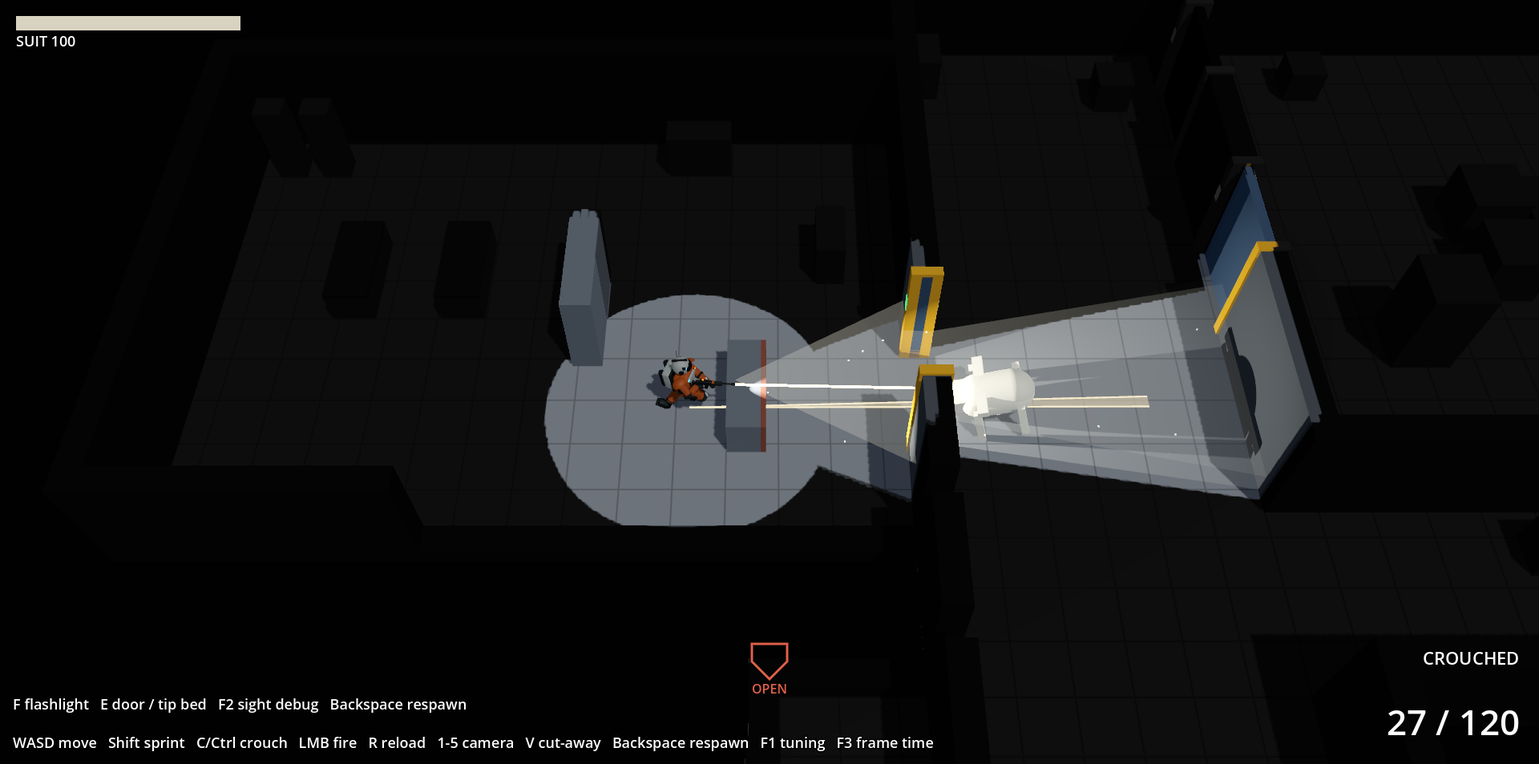
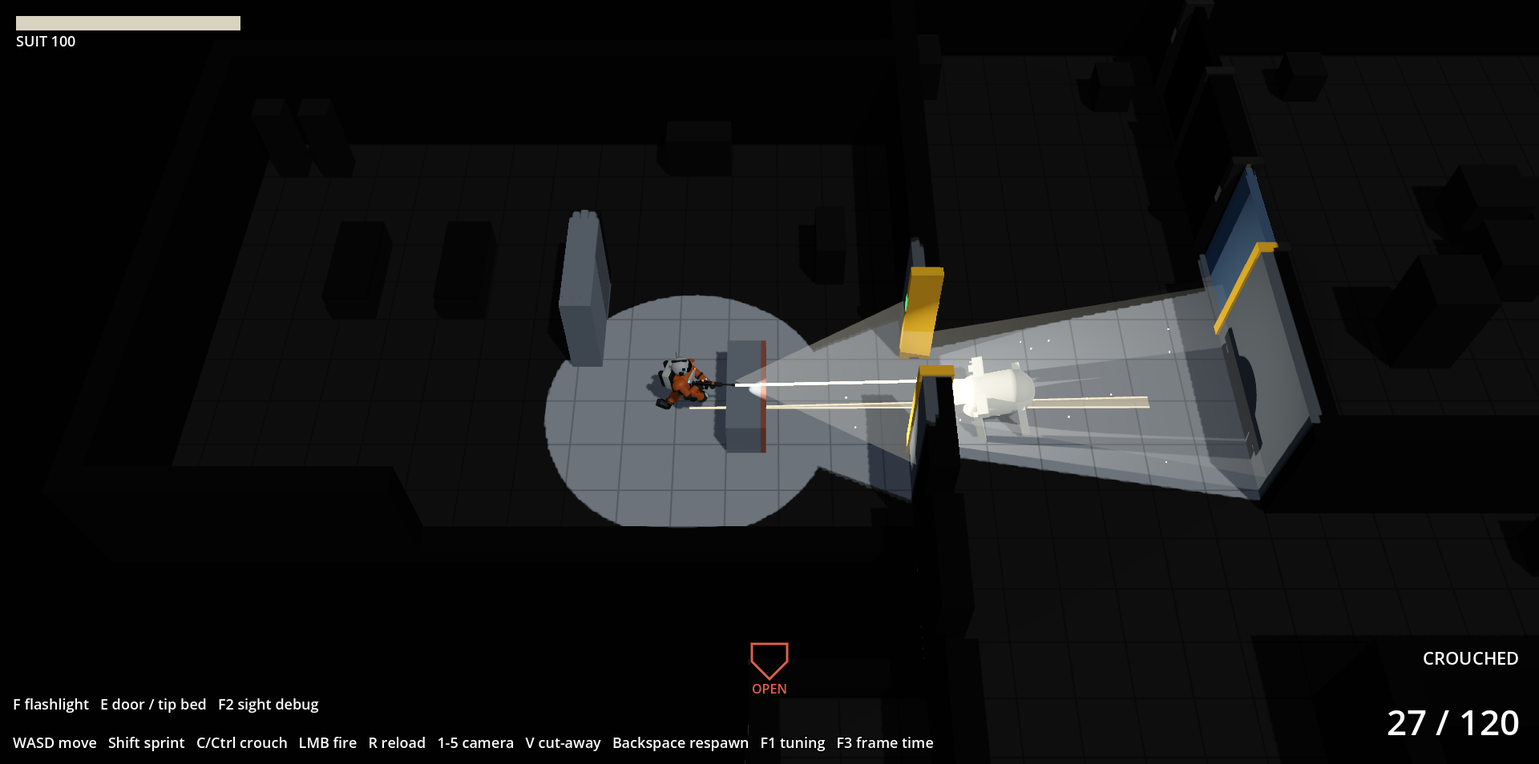
T005: contracts, handoff, STATUS, final captures

diff --git a/docs/handoffs/auto-T005.md b/docs/handoffs/auto-T005.md
@@ -1,0 +1,103 @@
+# T005 handoff: the stalker, cover with height, and getting hurt
+
+Branch `auto/t005-mac`. Play it: `godot --path . scenes/enemies/stalker_deck.tscn`.
+You start at the south end of the junction with an overturned bed, two tippable beds and consoles in the medbay (door on your left, ahead), one stalker prowling cargo, and one behind a wall panel you'll walk past.
+New keys: E tips a bed in reach (otherwise works a door); Backspace resets everything and starts a new life. Everything from `sight_deck` still works (WASD, Shift, C/Ctrl, mouse, LMB, R, F, F1, F2, F3).
+
+**Nobody has played this.** No keyboard or mouse has driven it, and nobody has heard the sounds. The stage 2 gate is still open.
+
+## What changed
+- **New modules:** `src/cover/`, `src/health/`, `src/enemies/`, `src/run_log/`, each with a `CONTRACT.md`. New data: `data/cover.json`, `data/health.json`, `data/enemies.json`. New scene: `scenes/enemies/stalker_deck.tscn`.
+- **`data/deck.json`:** every prop has a `cover` class. The medbay gains a third bed, already overturned. The two old beds are marked `tippable`.
+- **`data/debug.json`:** new F1 sections for Cover, Suit, Stalker senses, body, spit and lunge, and Ambush.
+
+**Edits outside the packet's named modules.** The packet needed these hooks, and I kept them small. Older scenes behave as before, apart from the extra bed:
+| File | Change |
+| --- | --- |
+| `src/weapons/rifle.gd` | Optional `shot_tracer` replaces the flat ray; `take_hit` also gets `origin` |
+| `src/player/operator.gd` | `hold_control()` for staggers, tipping and death; `crouch_shown` so a braced shot rises |
+| `src/study/deck_layout.gd`, `deck_builder.gd` | Props keep their `cover`; optional `breaches` (wall openings with floor) |
+| `src/sight/sight_deck.gd` | `_help_text()` hook |
+
+**The other decks changed slightly.** The third bed also appears as a plain upright box in `weight_deck`, `sight_deck` and `scale_deck`. Their captures weren't retaken.
+
+## Checks run
+**Headless: 153 passed, 0 failed, 0 load errors** (96 before T005). `--import` exits 0 with no errors. It still prints 13 `invalid UID` warnings for `operator.glb`, in files I didn't touch; I didn't check whether they predate this branch.
+
+| Packet check | Test |
+| --- | --- |
+| low cover blocks crouched, not standing | `test_low_cover_blocks_a_crouched_target_and_not_a_standing_one` |
+| braced firing exposes you | `test_braced_firing_exposes_you`, `test_the_mark_is_per_shooter_not_per_box` |
+| tall cover blocks both | `test_tall_cover_blocks_both` |
+| tipping changes the class | `test_tipping_the_bed_changes_its_cover_class_after_the_commitment`, plus the scene test |
+| stagger at the threshold | `test_a_stagger_triggers_at_the_threshold_and_not_under_it`, `test_a_big_hit_staggers_in_the_scene` |
+| puddle damage over time | `test_puddle_damage_over_time_only_while_standing_in_it`, plus the scene test |
+| hears a shot → investigate | `test_a_shot_it_hears_sends_it_to_investigate`, `test_the_rifle_and_sprinting_make_noise_in_the_scene` |
+| sees the player → stalk | `test_seeing_the_player_starts_the_stalk` |
+| in range → spit / lunge | `test_in_range_it_spits_with_a_telegraphed_windup`, `test_close_up_it_lunges_then_recovers_vulnerable` |
+| spit blocked far, arcs over near | `test_a_spit_is_blocked_by_low_cover_at_long_range_and_arcs_over_at_short_range`, `test_a_flying_glob_ends_on_cover_or_on_the_body` |
+| ambush fires once, only behind | `test_the_ambush_fires_once_only_behind_the_player`, `test_the_burst_fires_once_behind_the_player_and_lets_it_out` |
+| run log has its fields | `test_the_run_log_file_is_written_with_every_field`, `test_death_writes_the_log_and_a_respawn_resets_everything` |
+| numbers from data | `test_t005_scripts_have_no_tunable_literals` (18 scripts; capture code exempt), plus edited-value tests |
+
+Also tested: 6 to 8 rifle hits to kill (the numbers give 7), stalk paths leave the straight line and prefer hidden points, shut doors stop paths and bodies, and the E and Backspace key handlers (fed key events directly).
+
+I broke the code on purpose to prove the tests bite, then restored it:
+| Break | Tests that fail |
+| --- | --- |
+| low cover has no height | 8 |
+| bracing doesn't raise you | 2 |
+| the spit never arcs | 3 |
+| ambush fires while you look at it | 2 |
+| stagger only above the threshold | 1 |
+| log drops `killed_by` | 2 |
+
+**Frame time with two stalkers hunting: 3.50 ms average, 5.20 ms p95.** Against `sight_deck`, that is +0.26 ms average and +1.5 ms p95.
+| Scene | Average ms | p95 ms | p99 ms | Max ms |
+| --- | --- | --- | --- | --- |
+| `stalker_deck` (3 runs) | 3.50, 3.49, 3.51 | 5.20, 5.21, 5.20 | 5.65, 5.53, 5.75 | 18.0, 16.3, 17.0 |
+| `sight_deck` (2 runs) | 3.24, 3.24 | 3.66, 3.66 | 4.09, 4.05 | 18.8, 19.9 |
+
+- **Conditions:** 15 s windows at 1920×954 (not a true 1080p), M2 Pro, Metal, MSAA 4x, vsync off, load average 1.6 to 3.4. `frametime.json` holds the last run.
+- **The two demos differ:** the `sight_deck` demo paces a doorway and sweeps the light, so this comparison is rough. Neither fires.
+- **Where the p95 goes:** one world step of stalkers and cover costs 1.89 ms on average and 5.93 ms at worst, measured headless over 600 steps. It runs at 60 Hz, which is my explanation for the p95 rising more than the average; I didn't profile it further.
+
+**Headless bot runs (not a test, just a look at behaviour):**
+- Standing still after the burst: the first lunge began about 1.7 s after the stalker woke, and the suit was gone at about 12 s, mostly to lunges.
+- Crouched behind the overturned bed with a stalker 6 m away through the door: the first spit stopped on the bed. The stalker then closed in, and the second spit came over at 3 m. The bot never moved, so the puddles did half the damage.
+
+## Screenshots (`docs/screens/T005/`)
+- `cover_protected`: crouched behind the overturned bed, green shield.
+- `cover_braced_exposed`: firing from the same spot, shield open, stalker flashing from the hit.
+- `bed_tipping`, `spit_windup`, `acid_puddle`, `lunge_charge`, `lunge_recover`, `death_screen`.
+- `ambush_1_burst`, `ambush_2_turning`, `ambush_3_coming_out`: the turn is scripted to start right after the burst, at real turn rates.
+- `stalker_deck`, `stalker_deck_overlay`: the end of the measuring window.
+
+Stalkers are placed by script in these shots, except in the ambush. The positions are staged; the states and timing are real. Only stills were reviewed, so motion hasn't been judged.
+
+## Decisions made without you (easy to change)
+- **Stalkers can't open doors.** A shut door holds one, and a noise brings it up to the door. That makes doors a real tool and makes opening one scary, but you can shut yourself in a room and be safe. This is the decision most likely to need your call.
+- **Crouching behind low cover hides you from its eyes,** not just from its spit, unless you're within 2.6 m. Firing tells it where you are.
+- **Low cover counts as 0.9 m whatever the mesh is:** the 0.8 m crates, 1.1 m consoles and 1.2 m crates are all the same. Ammo crates (0.6 m) are no cover.
+- **Close range lobs, far range is flat.** It arcs over within about 3 to 5 m, which is the packet's rule rather than physics.
+- **One shield per hunting stalker.** It counts only stalkers with no wall or shut door between you. It uses the real arc, so it goes hollow when one gets close enough to lob over.
+- **The spawn moves south of the panel in this scene only,** so you have to walk past it. The closet behind the panel exists only here too.
+- **Start numbers:** suit 100, spit 16, lunge 34 (staggers), puddle 9 per second for 6 s, stalker health 126 (7 rifle hits), stalk speed 2.5 m/s (you walk at 3.4). Taking hits during recovery costs it 1.5 times the damage.
+- **A direct spit also leaves a puddle at your feet,** so it pushes you off your spot.
+- **Hits don't interrupt a wind-up.** A flinch slows it and flashes it, and nothing more.
+- **No death animation:** the operator stops, and the death screen shows who killed you and how.
+
+## Known limits
+- **The mark can tell you something you can't see:** a shield appears for a hunting stalker outside your light, as long as no wall is between you. That may be good dread or a leak.
+- **Shots still hit stalkers you can't see,** and hidden stalkers pop in with no fade (both as with T004's targets).
+- **Rounds fly flat at 1.2 m, exactly the top of the 1.2 m crates' physics boxes.** I didn't test a shot grazing one, so those crates may stop rounds that their 0.9 m cover height wouldn't.
+- **The panel is off-screen at the moment of the burst** when you face north, because the camera leads your aim. That is the point of the pillar, but it means you hear it before you see anything, and the sound is only a placeholder.
+- **A bed can land on a stalker:** a tipped bed's collision appears when it lands, even if one is standing there. Not seen, not tested.
+- **The run log is written on death, on Backspace and on window close.** The close path is tested by sending the notification, not by a real quit. Files: `~/Library/Application Support/Godot/app_userdata/Grave Rats/runs/`.
+
+## Needs John's eye
+1. *"Is moving through these rooms with a flashlight tense and fun?"* Play it with F1 open.
+2. **Does the burst work?** Do you hear it, turn, and still feel late? First levers: F1 "Ambush", and the 0.55 s before it comes out.
+3. **Should stalkers open doors?**
+4. **Is the bed worth tipping?** You lose 0.8 s for cover that a close stalker lobs over.
+5. **Are the sounds loud enough to warn you?** They're generated noise, and nobody has heard them.

diff --git a/src/enemies/CONTRACT.md b/src/enemies/CONTRACT.md
@@ -1,0 +1,52 @@
+# enemies
+
+The stalker, its spit, the bulkhead ambush, and the scene that closes the grey-box core loop (T005).
+
+## Owns
+- `stalker_brain.gd`: scene-free states, senses, turning, timing.
+- `stalker_nav.gd`: scene-free paths (`AStarGrid2D` over `DeckLayout.free_grid`, with shut doors, beds and the panel as named blockers) and the choice of where a stalk goes next.
+- `spit_arc.gd`: scene-free glob: lobbed at short range, nearly flat at long range.
+- `ambush_trigger.gd`: scene-free rule of the burst.
+- `stalker.gd`, `stalker_body.gd`: one CharacterBody3D and its grey-box body.
+- `spit_system.gd`: globs and puddles in the world, in opaque materials so the sight mask hides them.
+- `stalker_pack.gd`: the stalkers and what they share: builds senses, carries noise, turns events into spits and hits.
+- `bulkhead.gd`: the sealed panel: wall-coloured, stops bodies and sight, bursts into debris.
+- `placeholder_sound.gd`: generated bangs and spits, until real sound.
+- `stalker_deck.gd`: root of `scenes/enemies/stalker_deck.tscn`. Extends `src/sight/sight_deck.gd`; wires cover, suit, pack, ambush, run log. Dresses a copy of the deck: adds the closet and breach, moves the spawn south of the panel, removes dummies, makes the `tippable` props TipBeds.
+
+## Does not own
+- Cover rules (`src/cover`), the suit and puddle rules (`src/health`), sight (`src/sight`; `Visibility.blocked` answers "walls, shut doors, tall cover" for it), doors (`src/doors`).
+
+## States
+`DORMANT` (the closet) → `STALK` on `wake`. `PROWL` → `INVESTIGATE` on a noise → back after `linger_s`. Prowl or investigate → `STALK` on seeing you or being shot. `STALK` → `SPIT` or `LUNGE` in range → `RECOVER` → `STALK`. Memory running out in `STALK` → `INVESTIGATE` the last known place. Your death → `PROWL`.
+
+## Rules
+- **Sight:** forward cone, stopped by walls, shut doors and tall cover, and by low cover on the 3D line to your torso: crouching behind a bed hides you. Within `close_sense_m` it feels you past low cover (not through walls).
+- **Doors:** it can't open them. A shut door stops it and its paths, and a noise behind one brings it up to the door. Doors won't close on it.
+- **Stalk:** a planner picks points on rings around you and beside cover, scored for being hidden from you, off the direct line and on its chosen side; far away it must also get closer by walking, and close up it circles.
+- **Lunge** only with nothing at knee height on the line (`ground_clear`). With a box between you it spits, which at short range arcs over.
+- **Fast turn on a lunge only.** Everything else turns at capped rates, and it walks where it faces.
+- **Firing from hiding** refreshes where it thinks you are.
+- **Ambush:** after you pass the panel by `past_m` with it at least `behind_deg` off your aim, within `max_range_m`. Bang and kick at once; the stalker moves `emerge_delay_s` later.
+
+## Public API
+- `StalkerBrain.new(cfg, patrol, dormant, yaw)`: `step(delta, senses) -> events`, `hear(kind, at, from) -> bool`, `take_hit(damage, from) -> dealt`, `wake(player)`, `force_hunt`, `force_spit`, `force_lunge`, `alive()`, `hunting()`, `vulnerable()`, `state_name()`; static `perceives(...)`; fields `state`, `yaw`, `goal`, `velocity`, `last_known`, `knows`, `windup`, `charging`, `health`. Events `EV_SPIT`, `EV_LUNGE_START`, `EV_LUNGE_HIT`.
+- `StalkerNav.new(cfg, layout)`: `set_blocker(id, rect)` (empty Rect2 clears), `path(from, to)`, `is_free(p)`, `stalk_point(from, player, side, hidden)`.
+- `SpitArc.new(cfg, from, to)`: `step(delta, cover, plan_blocked, body) -> FLYING|COVER|WALL|HIT|LANDED`, `point_at(s)`; static `blocked_by_cover(cfg, cover, from, to)`, `apex_for(cfg, d)`.
+- `AmbushTrigger.new(cfg, panel)`: `check(player, aim_dir) -> bool` (true once), `would_fire`, `reset()`, `fired`.
+- `StalkerPack`: `setup(layout, cover, blocked, dps)`, `tick(delta)`, `reset()`, `noise(kind, at)`, `shooter_lines()`, `play_sound(key, at)`; fields `stalkers`, `nav`, `spits`, `target` {`pos`, `height`, `alive`}.
+- `Stalker`: `setup`, `reset`, `simulate(delta, pack)`, `place_hunting(from, at)`, `take_hit`, `shot_disc`, `mouth`, `floor_position`; fields `brain`, `label`.
+- `Bulkhead`: `setup(breach, cfg, height)`, `blow()`, `reset()`, `tick(delta)`, `blocks_sight()`, `sight_rect()`, `panel_center()`, `debris_count()`, `sealed`.
+- `stalker_deck.gd`: `simulate_world(delta)`, `interact()`, `fire_ambush()`, `body_height()`, `bed_in_reach(p)`, plus `weight_deck`'s and `sight_deck`'s. Keys: E tips a bed in reach, otherwise works a door; Backspace resets everything, starts a new life and writes the old one's log.
+
+## Signals
+`StalkerPack.player_hit(source, amount, stalker, in_cover)`, `player_protected(stalker)`; `SpitSystem.glob_ended(result, shooter, aimed_at)`; `Stalker.was_shot(stalker, damage, from)`; `Bulkhead.burst`.
+
+## Data keys (`data/enemies.json`)
+- `stalker`: `health`, `radius_m`, `height_m`, `torso_m`, `mouth_m`, `hit_radius_m`, `vulnerable_damage_mult`; `senses` {`sight_range_m`, `sight_half_angle_deg`, `close_sense_m`, `memory_s`, `gunfire_m`, `sprint_m`, `sprint_emit_s`}; `turn` {`prowl_deg_s`, `investigate_deg_s`, `stalk_deg_s`, `spit_deg_s`, `lunge_deg_s`}; `speed` {`prowl_m_s`, `investigate_m_s`, `stalk_m_s`}; `prowl` {`pause_s`, `arrive_m`}; `investigate` {`linger_s`, `timeout_s`, `arrive_m`}; `stalk` {`replan_s`, `arrive_m`, `ring_radii_m`, `ring_samples`, `spot_margin_m`, `spot_range_m`, `hidden_score`, `flank_score_per_rad`, `flank_max_rad`, `side_score`, `from_cost_per_m`, `close_score_per_m`, `path_tries`, `orbit_slack_m`, `orbit_within_m`}; `nav` {`cell_m`, `repath_s`, `lookahead_cells`, `search_rings`}; `spit` {`windup_s`, `recover_s`, `cooldown_s`, `first_delay_s`, `min_range_m`, `max_range_m`, `face_deg`, `damage`, `hit_radius_m`, `protect_radius_m`, `body_margin_m`, `speed_m_s`, `min_flight_s`, `apex_short_m`, `apex_long_m`, `short_range_m`, `long_range_m`, `arc_samples`, `glob_radius_m`, `glob_color`, `glob_energy`}; `puddle` {`life_s`, `radius_m`, `blocked_back_m`, `shrink_from`, `height_m`, `color`, `energy`, `max_count`}; `lunge` {`windup_s`, `range_m`, `charge_m`, `speed_m_s`, `damage`, `hit_reach_m`, `recover_s`, `cooldown_s`, `first_delay_s`, `probe_height_m`}; `flinch` {`s`, `speed_factor`, `pitch_deg`, `flash_s`}; `body` {colours, `glow_*`, `windup_lean_deg`, `charge_stretch`, `recover_squash`, `dead_tilt_deg`, `visual_rate_per_s`, `parts` [{`capsule` [r, h] or `box` [x, y, z], `at`, `rot`}]}.
+- `pack` [{`name`, `space`, `at`, `yaw_deg`, `patrol` [[fx, fz]], `dormant`}].
+- `ambush`: `closet` (a space spec), `breach`, `spawn`, `pass_dir`, `past_m`, `max_range_m`, `behind_deg`, `emerge_delay_s`, `camera_kick_m`, `camera_kick_recover_s`, `panel_color`, `panel_roughness`, `debris` {`count`, `size_min_m`, `size_max_m`, `speed_min_m_s`, `speed_max_m_s`, `spread_deg`, `lift_m_s`, `gravity_m_s2`, `bounce`, `friction`, `spin_deg_s`, `color`, `hot_color`, `hot_share`}.
+- `sound`: `mix_rate`, `unit_size_m`, and `bang`, `spit`, `lunge` {`length_s`, `decay_per_s`, `low_hz`, `low_share`, `volume_db`}.
+- `help` {`text`}.
+
+Tests: `tests/test_enemies.gd`.

diff --git a/docs/STATUS.md b/docs/STATUS.md
@@ -1,6 +1,6 @@
 # Grave Rats — status
 
-**Stage:** 2 (core loop, grey box): T003 and T004 merged; T005 (stalker, cover, damage, ambush) running. Gates for stage 1 (camera/scale) and the T003/T004 feel wait for John.
+**Stage:** 2 (core loop, grey box): T003 and T004 merged; T005 (stalker, cover, damage, ambush) built on `auto/t005-mac`, awaiting lead review. Gates for stage 1 (camera/scale) and stage 2 wait for John.
 
 ## Stage plan (each stage ends in a gate John answers by playing)
 0. **Skeleton.** Godot project, headless tests, capture tool, runners. Gate: none (lead checks). **Done 2026-10-30.**
@@ -12,10 +12,11 @@
 Later (parked): competitive modes, ship generation, contracts and meta, the threat roster.
 
 ## What builders need now
-- Code: T004 merged (lead reviewed, 96/96 reproduced). T005 queued.
+- Code: T005 awaits lead review (153/153 headless). Next: John plays `scenes/enemies/stalker_deck.tscn` for the stage 2 gate.
 - Art: A001–A004 merged. Lane idle on purpose: crew/threat, environment, HUD and logo development all wait on John's picks.
 
 ## Open questions (for John)
+- Stage 2 gate: *"Is moving through these rooms with a flashlight tense and fun?"* Play `scenes/enemies/stalker_deck.tscn` with F1 open. Should stalkers open doors (they can't now)? Is tipping a bed worth 0.8 s? (auto-T005)
 - Stage 1 gate: which camera preset and room/character scale? At 55–65° pitch a real-size operator can't be both ~8% of view height and framed like the panel; preset 1 favours operator size, preset 3 the composition (see auto-T002).
 - `tools/capture.sh` only reaches 1920×954 on this display (title bar); accept, or make the capture window borderless (src/debug task)?
 - A001 picks: which crew looks and threat directions to develop (art lane's recommendation: 01 orange hauler; 11 acid stalker, with 09 rogue AI as the systemic complement).
@@ -36,8 +37,9 @@ Later (parked): competitive modes, ship generation, contracts and meta, the thre
 - `tests/test_deck.gd` `test_props_at_real_size` logs a string-format error (`%` with an array) while passing.
 - Sight leaks: the floor aim cone stops at unseen walls, tracers and prompts draw over the mask, hidden targets pop in with no fade.
 - Quiet-machine frame-time baseline for the asset viewer (T001 runs had other load on the Mac).
+- `src/study` deck dressing and the deck copy in `stalker_deck` want a real level module.
+- Stalker: a hit interrupting a wind-up; a player death animation.
 
 ## Last session
-2026-10-30 (lead): merged T004 (96/96 reproduced; flashlight ~0.35 ms) and A004; queued T005.
-2026-10-30 (code, unattended): T004 built: `src/sight`, `src/doors`, `scenes/sight/sight_deck.tscn`, `data/sight.json`, `data/doors.json`; `data/deck.json` gains a fourth (locked) door and two tall props. 96/96 tests, import clean.
-Flashlight costs about 0.35 ms (3.51 vs 3.16 ms avg) at 1920×954, not a true 1080p, on a loaded Mac. Captures in `docs/screens/T004/`. Nobody has played it; the dread is untested.
+2026-10-30 (code, unattended): T005 built: `src/cover`, `src/health`, `src/enemies`, `src/run_log`, `scenes/enemies/stalker_deck.tscn`. Small hooks in rifle, operator, deck layout and `sight_deck`. 153/153 tests, import clean.
+Two stalkers hunting: 3.50 ms avg, 5.20 ms p95 at 1920×954 (+0.26 / +1.5 ms against `sight_deck`). Captures in `docs/screens/T005/`. Nobody has played it or heard it.

diff --git a/src/study/CONTRACT.md b/src/study/CONTRACT.md
@@ -13,7 +13,7 @@ T002 camera and scale study. Grey-box only; meant to be thrown away or folded in
 - Camera behaviour (`src/camera`), data loading (`src/core`), capture driver (`src/debug`), legacy assets.
 
 ## Public API
-- `DeckLayout.new(deck: Dictionary, room_scale := -1)`: `spaces`, `space_order`, `doors`, `walls` (Rect2), `props`, `bounds`; `space_rect(name)`, `point_in(name, [fx, fz])`, `space_at(p)`, `blockers()`, `is_free(p, radius)`, `path_cells(from, to, radius, cell) -> int` (-1 = no path), `free_grid(radius, cell)`.
+- `DeckLayout.new(deck: Dictionary, room_scale := -1)`: `spaces`, `space_order`, `doors`, `breaches`, `walls` (Rect2), `props`, `bounds`; `space_rect(name)`, `point_in(name, [fx, fz])`, `space_at(p)`, `blockers()`, `is_free(p, radius)`, `path_cells(from, to, radius, cell) -> int` (-1 = no path), `free_grid(radius, cell)`.
 - `DeckBuilder.build(layout) -> Node3D` named "Deck".
 - Scene: `set_room_scale(s)`, `set_character_scale(s)`, `respawn()`, `capture_shots()`, `apply_shot(shot)`, `release_shot()`.
 - Keys: 1–5 camera preset, 6/7/8 room scale 0.85/1.0/1.15, 9/0 character scale 1.0/1.15, C cut-away mode, R respawn, WASD, mouse aim, F3 frame time.
@@ -25,6 +25,6 @@ Rects are world XZ metres (x east, z south). Space sizes scale with `room_scale`
 None.
 
 ## Data keys (`data/deck.json`)
-`grid_m`, `floor_tile_m`, `wall_height_m`, `wall_thickness_m`, `wall_segment_m`, `door_width_m`, `door_frame_m`, `room_scale`, `room_scale_options`, `character_scale`, `character_scale_options`; `spaces` [{`name`, `kind` (room|corridor), `size_m` [x, z], `anchor` {`to`, `side`, `offset_m`, `offset_walls`, `open`}}]; `doors` [{`space`, `side`, `at` (0–1 along that side), `state`, `slide` (both read by `src/doors`; this module only cuts the opening)}]; `props` [{`type`, `space`, `at` [fx, fz] centre, `size_m` [x, y, z]}]; `spawn` {`space`, `at`, `aim_deg` (0 = north/screen-up)}; `path_check` {`from`, `to`, `cell_m`, `margin_m`}; `stand_in` {`speed_m_s`, `turn_deg_s`, `radius_m`, `height_m`, `aim_height_m`}; `lighting` {...}; `colors` {...}.
+`grid_m`, `floor_tile_m`, `wall_height_m`, `wall_thickness_m`, `wall_segment_m`, `door_width_m`, `door_frame_m`, `room_scale`, `room_scale_options`, `character_scale`, `character_scale_options`; `spaces` [{`name`, `kind` (room|corridor), `size_m` [x, z], `anchor` {`to`, `side`, `offset_m`, `offset_walls`, `open`}}]; `doors` [{`space`, `side`, `at` (0–1 along that side), `state`, `slide` (both read by `src/doors`; this module only cuts the opening)}]; `props` [{`type`, `space`, `at` [fx, fz] centre, `size_m` [x, y, z], `cover` (none|low|tall, read by `src/cover`), optional `tippable`, `overturned`, `tip_side` (read by `stalker_deck`; other scenes draw these beds as plain upright boxes)}]; `spawn` {`space`, `at`, `aim_deg` (0 = north/screen-up)}; optional `breaches` [{`space`, `side`, `at`}]: wall openings with floor but no door or frame, for their owner to fill (`src/enemies/bulkhead.gd`); only `stalker_deck`'s copy of the deck has any; `path_check` {`from`, `to`, `cell_m`, `margin_m`}; `stand_in` {`speed_m_s`, `turn_deg_s`, `radius_m`, `height_m`, `aim_height_m`}; `lighting` {...}; `colors` {...}.
 
 Tests: `tests/test_deck.gd`.

diff --git a/src/cover/CONTRACT.md b/src/cover/CONTRACT.md
@@ -1,0 +1,34 @@
+# cover
+
+Cover with height (T005): what stops a shot in 3D, the bed you tip over, the HUD's shield marks.
+
+## Owns
+- `cover_field.gd`: scene-free pieces (footprint + class) and the straight 3D trace against them. The torso height of a stance.
+- `tip_state.gd`: scene-free rules of a tipping bed: upright (no cover), tipping (a commitment, still no cover), overturned (low).
+- `tip_bed.gd`: one bed: mesh hinged on its far long edge, collision, its piece in the field.
+- `shot_tracer.gd`: `Rifle.shot_tracer`. Walls and doors through physics; bodies on the plan line, aimed at at their torso height; cover in between stops the round.
+- `protection_mark.gd`: one shield per shooter.
+
+## Does not own
+- Who is shooting (the marks are told, by `src/enemies`), the E key (the scene), sight (`src/sight`; tall cover is already an occluder there).
+
+## Rules
+- Low cover stands `low_height_m` whatever its mesh is, so the rule is one number: a 0.8 m crate, a 1.1 m console and a 1.2 m crate all count as 0.9. Tall has no top.
+- It's geometry, not "near a box": low cover protects a crouched body only when it is close enough to the body along the line. With the muzzle at 1.2 m and a crouched torso at 0.8 m that is the last quarter of the line.
+- Firing from a crouch braces you: torso at `braced_torso_m` for `brace_hold_s` after each shot, the body visibly rising.
+- A shield is solid when cover stops what that shooter would throw right now (its arc, so it goes hollow when one gets close enough to lob over), and a hollow red "OPEN" otherwise.
+
+## Public API
+- `CoverField.new(cfg)`: `set_piece(id, rect, kind)` ("none" removes), `kind_of(id)`, `height_of(kind)`, `segment_hit(a, b) -> {} or {t, point, id, kind}`, `line_blocked(a, b)`, `torso_height(crouch_amount, braced)`. Constants `NONE`, `LOW`, `TALL`.
+- `TipState.new(cfg, overturned := false, fall_side := 1.0)`: `start(from_side) -> bool`, `step(delta) -> bool` (true on landing), `cover_class()`, `footprint(rect, thickness)`; fields `state`, `progress`, `side`.
+- `TipBed`: `setup(spec, rect, cover_field, cfg)`, `reset()`, `tick(delta)`, `try_tip(p) -> bool`, `can_tip()`, `distance_to_point(p)`, `footprint()`; fields `tip`, `upright_rect`.
+- `ShotTracer.new(cover, world)`: `trace(origin, dir, length)`; fields `bodies`, `exclude`. A body has `shot_disc() -> {} or {center: Vector2, radius, height}` and `take_hit(hit)`.
+- `ProtectionMark`: `set_lines(array of bool)`, `protected_count()`, `lines`.
+
+## Signals
+`TipBed.landed(bed)`, `TipBed.footprint_changed(bed)`.
+
+## Data keys (`data/cover.json`)
+`low_height_m`, `standing_torso_m`, `crouched_torso_m`, `braced_torso_m`, `brace_hold_s`, `brace_crouch_shown`, `brace_rate_per_s`; `bed` {`tip_s`, `reach_m`, `lying_height_m`, `mattress_m`, `color`, `mattress_color`, `prompt`, `prompt_height_m`, `prompt_pixel_size`, `prompt_font_size`, `prompt_color`}; `mark` {`layer`, `size_px`, `word_gap_px`, `gap_px`, `from_bottom_px`, `line_px`, `protected_color`, `exposed_color`, `word_protected`, `word_exposed`, `font_size`}. Props' classes are in `data/deck.json`.
+
+Tests: `tests/test_cover.gd`.

diff --git a/src/sight/CONTRACT.md b/src/sight/CONTRACT.md
@@ -10,14 +10,14 @@ Pillar 2, "Know the room, fear the corner" (T004): line of sight, the three stat
 - `sight_mask.gd`, `sight_mask.gdshader`: two deck-wide SubViewports (visible, cleared each frame, 4x MSAA; memory, never cleared, no MSAA) and a fullscreen quad that looks up each pixel's world XZ from depth. Lighting stays real. Drawn first among the transparents (`RENDER_PRIORITY_MIN`), so beam, FX, aim drawings and prompts draw after it, unmasked.
 - `flashlight.gd`, `beam.gdshader`, `mote.gdshader`: shadowed `SpotLight3D` at the muzzle, a beam sheet cut to the sight polygon, dust motes that show only inside the wedge and the visible mask.
 - `sight_debug.gd`: F2 view.
-- `sight_deck.gd`: root of `scenes/sight/sight_deck.tscn`. Extends `src/player/weight_deck.gd`, adding all of the above plus `src/doors`, with darker lighting.
+- `sight_deck.gd`: root of `scenes/sight/sight_deck.tscn`. Extends `src/player/weight_deck.gd`, adding all of the above plus `src/doors`, with darker lighting. `_help_text()` is a hook for scenes built on it.
 
 ## Does not own
 - Doors (`src/doors`), deck geometry (`src/study`), the operator (`src/player`), enemies' own sight (next packet).
 
 ## Rules worth knowing
 - Walls block sight at their face; the mask spreads sight by `mask.dilate_m` so wall tops and faces show. It must stay under half a wall's thickness minus half a panel's, or sight spills past a door (0.22 m against 0.5 m walls and a 0.2 m panel).
-- Props at least `tall_prop_min_m` high block sight and are shown whole once a ray stops on them. Lower ones don't block. Stance doesn't change this yet (cover is a later packet).
+- Props at least `tall_prop_min_m` high block sight and are shown whole once a ray stops on them. Lower ones don't block. These are exactly the props with `cover: tall` (`tests/test_cover.gd` holds that). Crouching doesn't hide anything from the player's own sight; low cover against a stalker's eyes is in `src/enemies`.
 - The grid is the rules' truth and updates at `memory.update_hz`; the mask's memory texture is painted from the same polygons every frame, so its edge is smoother than the cells.
 - The sight wedge starts at the eye, the light at the muzzle. `Flashlight.spot_angle_deg()` makes them equally wide at full range; nearer in, the wedge is up to `muzzle_ahead_m × tan(half angle)` wider each side.
 

diff --git a/src/player/CONTRACT.md b/src/player/CONTRACT.md
@@ -15,7 +15,7 @@ The weighty operator (T003). The rule: the intent responds the same step, the co
 
 ## Public API
 - `OperatorModel.new(cfg)`: `step(delta, wish, to_yaw, wants_crouch, wants_sprint)`, `note_shot()`, `face_now(yaw)`, `reset_motion()`, `aim_yaw_for(from, point)`, `aim_error()`, `torso_lead()`, `leg_blend()` (x right, y forward, relative to the torso), `leg_time_scale()`, `crouch_time_scale()`, `current_turn_rate_deg()`, `top_speed()`, `moving()`, `firing()`; fields `velocity`, `speed`, `torso_yaw`, `hips_yaw`, `aim_yaw`, `crouch_amount`, `sprinting`, `turned_deg`. Statics `wish_from_keys`, `yaw_to`, `yaw_dir`. Yaw 0 faces -Z.
-- `operator.gd`: `aim_point`, `move_yaw_deg`, `input_enabled`, `scripted` {`keys`, `crouch`, `sprint`, `fire`} (used when input is off), `anim_speed`, `model`, `rifle`, `anim`; `simulate(delta)`, `request_reload()`, `face_now(point)`, `gun_yaw()`, `aim_dir()`, `muzzle_position()`, `shot_reach(yaw)`, `set_character_scale(s)`.
+- `operator.gd`: `aim_point`, `move_yaw_deg`, `input_enabled`, `scripted` {`keys`, `crouch`, `sprint`, `fire`} (used when input is off), `anim_speed`, `crouch_shown` (share of the crouch the body shows; a braced shot rises out of it), `model`, `rifle`, `anim`; `simulate(delta)`, `hold_control(seconds)` / `release_control()` / `control_held()` (no moving, turning or firing: a stagger, tipping a bed, death), `request_reload()`, `face_now(point)`, `gun_yaw()`, `aim_dir()`, `muzzle_position()`, `shot_reach(yaw)`, `set_character_scale(s)`.
 - Scene keys: WASD, Shift sprint, C/Ctrl crouch, mouse aim, LMB fire, R reload, 1-5 camera, V cut-away, Backspace respawn and refill, F1 tuning, F3 frame time.
 - Scene capture hooks: `capture_shots()`, `apply_shot(shot)` (a coroutine: runs real frames, then freezes `Engine.time_scale`), `release_shot()`.
 

diff --git a/src/health/CONTRACT.md b/src/health/CONTRACT.md
@@ -1,0 +1,24 @@
+# health
+
+Suit integrity and what acid does (T005).
+
+## Owns
+- `suit.gd`: scene-free integrity, the big-hit stagger, death.
+- `puddle_field.gd`: scene-free acid puddles: where, how long, the damage for standing in one. Overlaps don't stack.
+- `health_hud.gd`: bar, "ACID" warning, hit flash, death screen.
+
+## Does not own
+- What a stagger does to the operator (the scene: `Operator.hold_control`, opens the cone, kicks the camera). Spit and lunge damage and puddle size and life (`data/enemies.json`). Drawing puddles (`src/enemies/spit_system.gd`).
+
+## Public API
+- `Suit.new(cfg)`: `take(amount, source) -> {amount, staggered, died}`, `step(delta)`, `reset()`, `fraction()`, `staggered()`; fields `integrity`, `stagger_left`, `dead`, `last_source`. A hit of at least `threshold_fraction` of the full suit staggers; the threshold is per hit, so a puddle's ticks never do.
+- `PuddleField.new(dps)`: `add(at, radius, life, owner_name, max_count)`, `step(delta)`, `clear()`, `puddle_at(p)`, `damage_at(p, delta)`; field `puddles`.
+- `HealthHud`: `suit`, `in_acid`, `flash()`, `show_death(line)` ("" hides it).
+
+## Signals
+None.
+
+## Data keys (`data/health.json`)
+`suit` {`max`}; `stagger` {`threshold_fraction`, `control_loss_s`, `cone_deg`, `camera_kick_m`, `kick_recover_s`}; `acid` {`puddle_dps`}; `hud` {`layer`, `bar_width_px`, `bar_height_px`, `margin_px`, `label_font_size`, `death_font_size`, `detail_font_size`, `outline_px`, `flash_s`, `acid_color`, `bar_color`, `low_color`, `low_fraction`, `flash_color`, `death_color`, `death_word`, `restart_word`}.
+
+Tests: `tests/test_health.gd`.

diff --git a/src/weapons/CONTRACT.md b/src/weapons/CONTRACT.md
@@ -15,8 +15,8 @@ The rifle and the things it shoots (T003).
 ## Public API
 - `AimCone.new(cfg)`: `step(delta, speed_fraction, moving, sprinting, turned_deg)`, `target_deg(...)`, `spread_deg`.
 - `RifleState.new(cfg)`: `step(delta, sprinting) -> "finished"|"cancelled"|""`, `try_fire(sprinting) -> FIRED|BLOCKED_*`, `start_reload(sprinting) -> bool`, `cancel_reload()`, `refill()`, `reloading()`, `reload_progress()`, `shot_yaw(center, spread_deg)`; fields `mag`, `reserve`, `reload_left`, `reload_total`, `recoil_deg`, `camera_kick_m`, `rng`.
-- `rifle.gd`: `state`, `cone`, `fx`, `trigger_held`, `exclude`; `tick(delta, sprinting, origin, center_yaw, muzzle) -> bool` (once per physics step), `request_reload(sprinting) -> bool`.
-- Anything a shot hits may have `take_hit({point, direction, damage})`.
+- `rifle.gd`: `state`, `cone`, `fx`, `trigger_held`, `exclude`, `shot_tracer` (optional Callable `(origin, dir, length) -> {} or {position, collider}` replacing the flat physics ray; `src/cover/shot_tracer.gd` is the 3D one, and scenes without it are unchanged); `tick(delta, sprinting, origin, center_yaw, muzzle) -> bool` (once per physics step), `request_reload(sprinting) -> bool`.
+- Anything a shot hits may have `take_hit({point, direction, damage, origin})`.
 
 ## Reload rules
 Starting drops the magazine: its rounds go back to the reserve and the new magazine leaves the reserve, so the gun holds 0. It takes the full `reload_s`. Fire is refused and changes nothing. Sprinting cancels and the new magazine is lost. It can't start while sprinting, on a full magazine or with nothing left.

diff --git a/src/run_log/CONTRACT.md b/src/run_log/CONTRACT.md
@@ -1,0 +1,24 @@
+# run_log
+
+One JSON file per life, for the lead to read beside John's comments (T005).
+
+## Owns
+- `run_log.gd`: scene-free counters and the file. On John's Mac the files land in `~/Library/Application Support/Godot/app_userdata/Grave Rats/runs/`.
+
+## Does not own
+- Deciding what happened: the scene calls the `note_*` methods.
+
+## Public API
+`RunLog.new(dir := "user://runs")`: `begin()`, `note_time(delta)`, `note_shot(hit)`, `note_damage(source, amount, in_cover)`, `note_protected()`, `note_death(stalker, how)`, `to_dict(ended)`, `write(ended) -> path or ""` (once per life, never overwrites); fields `enabled` (captures turn it off), `last_path`, `dir`.
+
+## File fields
+`started_at`, `ended` ("death", "respawn", "quit"), `time_alive_s`, `shots_fired`, `shots_hit`, `damage_by_source` {`spit`, `puddle`, `lunge`}, `hits_in_cover`, `hits_in_open` (puddles count as neither), `times_protected`, `killed_by` {`stalker`, `how`} or null.
+"In cover" means cover stood on the straight line from the thrower to your torso at that moment, so a glob lobbed over your bed is a hit in cover. "Protected" means cover stopped a glob aimed within `spit.protect_radius_m` of you.
+
+## Signals
+None.
+
+## Data keys
+None.
+
+Tests: `tests/test_health.gd`, `tests/test_enemies.gd`.
